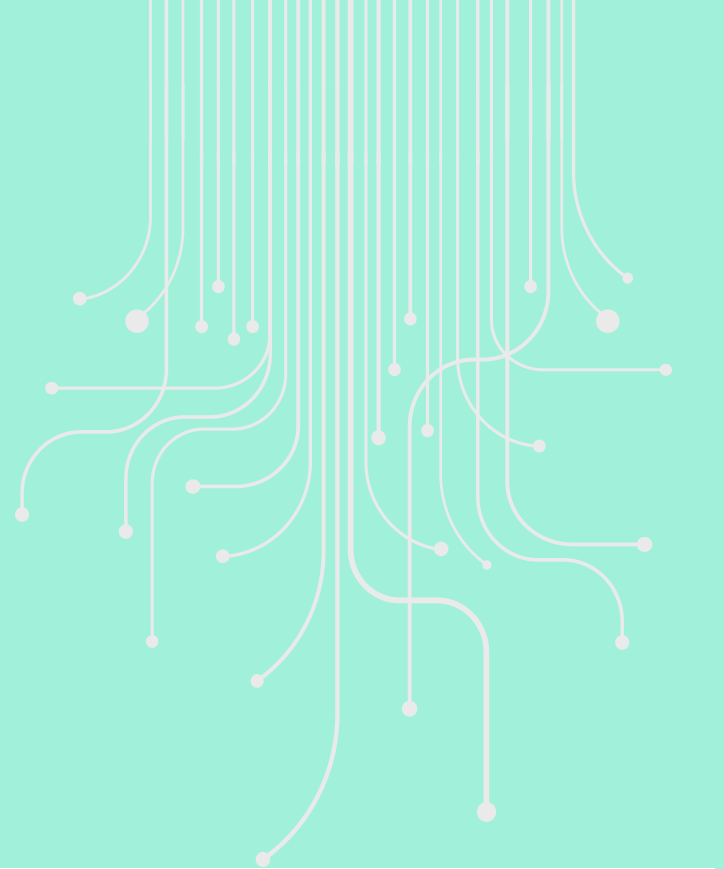
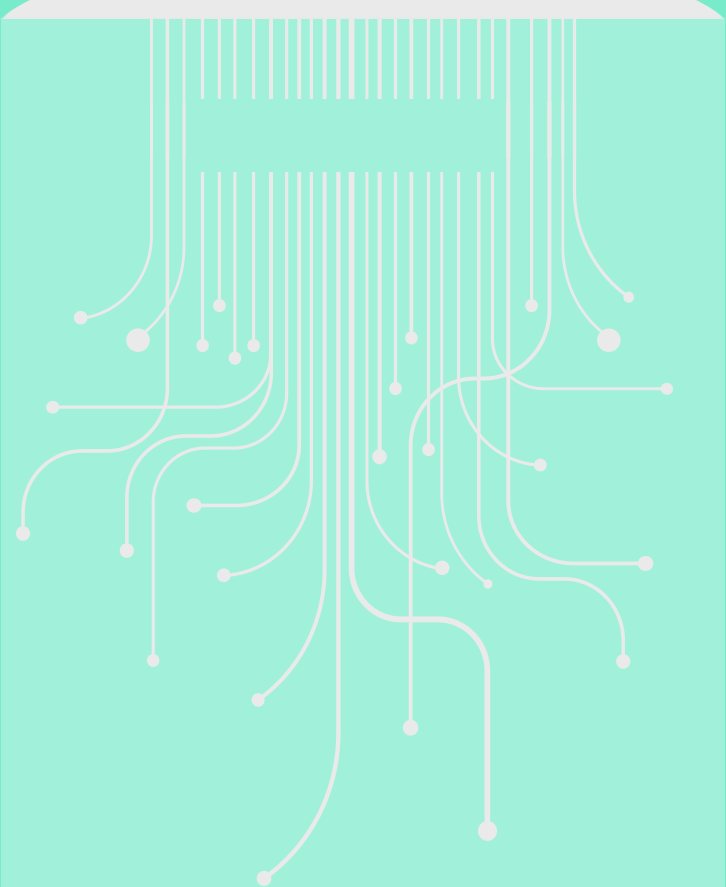
feature(award): add impact tree section with style

diff --git a/app/assets/stylesheets/base/award.sass b/app/assets/stylesheets/base/award.sass
@@ -79,6 +79,204 @@
       +adjust-font-size-to(12px)
       line-height: 1.2em
 
+  .results
+    background: #78ebca
+
+  .content-wrapper
+    +span-columns(14)
+    +squish(1)
+
+.impact-tree
+  background: lighten($green, 9%) url("/assets/award/result-tree.png") top center no-repeat
+  position: relative
+  width: 724px
+  height: 940px
+  margin: 0 auto
+  h1
+    +adjust-font-size-to(22px)
+    position: absolute
+    top: 110px
+    left: 222px
+    width: 250px
+    margin: 0
+    line-height: 1.14em
+    text-transform: uppercase
+    letter-spacing: 0.4px
+  h2
+    text-indent: -9999em
+    position: absolute
+    margin: 0
+  .fast-company
+    +companies-sprite("fast-company")
+    height: companies-sprite-height("fast-company")
+    width: companies-sprite-width("fast-company")
+    top: 174px
+    left: -23px
+  .good
+    +companies-sprite("good")
+    height: companies-sprite-height("good")
+    width: companies-sprite-width("good")
+    top: 317px
+    left: 104px
+  .aol
+    +companies-sprite("aol")
+    height: companies-sprite-height("aol")
+    width: companies-sprite-width("aol")
+    top: 258px
+    left: 190px
+  .ard
+    +companies-sprite("ard")
+    height: companies-sprite-height("ard")
+    width: companies-sprite-width("ard")
+    top: 316px
+    left: 351px
+
+  .yahoo
+    +companies-sprite("yahoo")
+    height: companies-sprite-height("yahoo")
+    width: companies-sprite-width("yahoo")
+    top: 215px
+    right: 68px
+
+  .taxi
+    +companies-sprite("taxi")
+    height: companies-sprite-height("taxi")
+    width: companies-sprite-width("taxi")
+    top: 360px
+    left: -26px
+
+  .abc
+    +companies-sprite("abc")
+    height: companies-sprite-height("abc")
+    width: companies-sprite-width("abc")
+    top: 416px
+    left: 51px
+
+  .redbox
+    +companies-sprite("red-box")
+    height: companies-sprite-height("red-box")
+    width: companies-sprite-width("red-box")
+    top: 455px
+    left: 154px
+
+  .psfk
+    +companies-sprite("psfk")
+    height: companies-sprite-height("psfk")
+    width: companies-sprite-width("psfk")
+    top: 420px
+    left: 299px
+
+  .digiday
+    +companies-sprite("digiday")
+    height: companies-sprite-height("digiday")
+    width: companies-sprite-width("digiday")
+    top: 405px
+    right: 249px
+
+  .fubiz
+    +companies-sprite("fubiz")
+    height: companies-sprite-height("fubiz")
+    width: companies-sprite-width("fubiz")
+    top: 409px
+    right: 123px
+
+  .emitionalmojo
+    +companies-sprite("emotional-mojo")
+    height: companies-sprite-height("emotional-mojo")
+    width: companies-sprite-width("emotional-mojo")
+    top: 339px
+    right: -19px
+
+  .canvas8
+    +companies-sprite("canvas8")
+    height: companies-sprite-height("canvas8")
+    width: companies-sprite-width("canvas8")
+    top: 524px
+    left: -25px
+
+  .takeapart
+    +companies-sprite("takepart")
+    height: companies-sprite-height("takepart")
+    width: companies-sprite-width("takepart")
+    top: 538px
+    left: 87px
+
+  .trendhunter
+    +companies-sprite("trend-hunter")
+    height: companies-sprite-height("trend-hunter")
+    width: companies-sprite-width("trend-hunter")
+    top: 526px
+    left: 188px
+
+  .mashable
+    +companies-sprite("mashable")
+    height: companies-sprite-height("mashable")
+    width: companies-sprite-width("mashable")
+    top: 569px
+    left: 297px
+
+  .nasdaq
+    +companies-sprite("nasdaq")
+    height: companies-sprite-height("nasdaq")
+    width: companies-sprite-width("nasdaq")
+    top: 500px
+    right: 241px
+
+  .nationswell
+    +companies-sprite("nation-swell")
+    height: companies-sprite-height("nation-swell")
+    width: companies-sprite-width("nation-swell")
+    top: 552px
+    right: 160px
+
+  .bluebus
+    +companies-sprite("blue-bus")
+    height: companies-sprite-height("blue-bus")
+    width: companies-sprite-width("blue-bus")
+    top: 497px
+    right: 14px
+
+  .minutos
+    +companies-sprite("minutos")
+    height: companies-sprite-height("minutos")
+    width: companies-sprite-width("minutos")
+    top: 656px
+    left: 111px
+
+  .influencia
+    +companies-sprite("influencia")
+    height: companies-sprite-height("influencia")
+    width: companies-sprite-width("influencia")
+    top: 671px
+    left: 183px
+
+  .swr
+    +companies-sprite("swr")
+    height: companies-sprite-height("swr")
+    width: companies-sprite-width("swr")
+    top: 694px
+    left: 362px
+
+  .hotdigital
+    +companies-sprite("hot-digital")
+    height: companies-sprite-height("hot-digital")
+    width: companies-sprite-width("hot-digital")
+    top: 656px
+    right: 44px
+
+  .kenh
+    +companies-sprite("kenh")
+    height: companies-sprite-height("kenh")
+    width: companies-sprite-width("kenh")
+    top: 836px
+    left: 190px
+
+  .irorio
+    +companies-sprite("irorio")
+    height: companies-sprite-height("irorio")
+    width: companies-sprite-width("irorio")
+    top: 795px
+    right: 174px
 
 
 

diff --git a/app/assets/stylesheets/base/settings.sass b/app/assets/stylesheets/base/settings.sass
@@ -50,7 +50,9 @@ $grid-padding  : 0px
 
 //  General Config
 $small-elements-spacing: 25px
+$companies-layout: smart
 
 // Construct map
 @import "small-elements/*.png"
+@import "award/companies/*.png"
 @import "steps/*.png"

diff --git a/app/assets/stylesheets/application.sass b/app/assets/stylesheets/application.sass
@@ -5,6 +5,7 @@
 @import "compass"
 @import "compass/layout/sticky-footer"
 @import "compass/css3/transition"
+@import "compass/utilities/sprites/base"
 @import "base/settings"
 @import "base/normalize"
 
